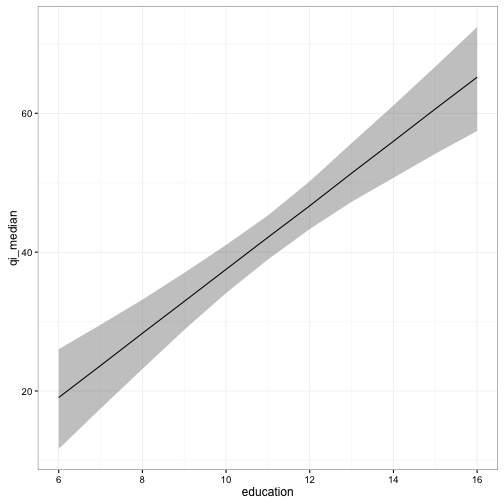
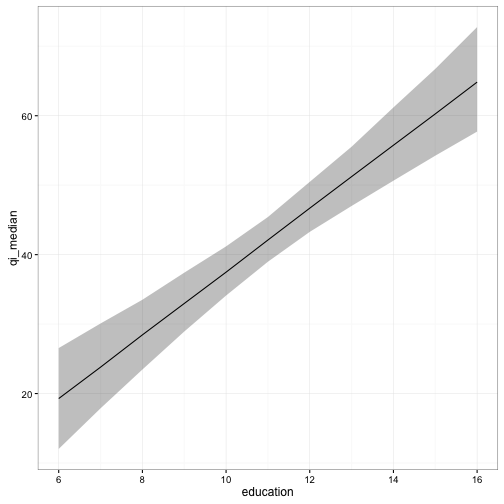
update README examples

diff --git a/README.md b/README.md
@@ -58,12 +58,12 @@ head(linear_qi)
 
 ```
 ##   education typewc      qi_
-## 1         6      1 15.01922
-## 2         6      1 13.03569
-## 3         6      1 17.81771
-## 4         6      1 20.71603
-## 5         6      1 20.61464
-## 6         6      1 18.23198
+## 1         6      1 19.16991
+## 2         6      1 23.26034
+## 3         6      1 22.49117
+## 4         6      1 19.48314
+## 5         6      1 17.05639
+## 6         6      1 17.17741
 ```
 
 By default `qi_builder` will return all of the simulations inside the central 
@@ -90,12 +90,12 @@ head(linear_qi_slim)
 
 ```
 ##   education typewc   qi_min qi_median   qi_max
-## 1         6      1 11.65448  19.05750 26.02128
-## 2         7      1 17.46071  23.66109 29.54267
-## 3         8      1 23.16987  28.31032 33.16030
-## 4         9      1 28.79834  32.90168 37.01256
-## 5        10      1 34.10862  37.52265 41.03652
-## 6        11      1 38.93380  42.12905 45.28592
+## 1         6      1 12.03153  19.28303 26.55257
+## 2         7      1 17.87690  23.80418 30.09274
+## 3         8      1 23.46165  28.44959 33.50827
+## 4         9      1 28.92824  32.96829 37.40324
+## 5        10      1 34.11213  37.47715 41.18952
+## 6        11      1 38.98086  42.10606 45.41850
 ```
 
 The slimmed simulation data set can be efficiently plotted, for example using
@@ -128,7 +128,7 @@ create a function to turn the systematic component into the QI:
 
 
 ```r
-pr_fun <- function(x) 1 / (1 + exp(x))
+pr_fun <- function(x) 1 / (1 + exp(-x))
 ```
 
 Then supply it to `qi_builder`'s `model` argument:
@@ -147,23 +147,11 @@ m2 <- glm(admit ~ gre + gpa + rank, data = Admission, family = 'binomial')
 m2_sims <- b_sim(m2)
 
 # Create fitted values
-m2_fitted <- expand.grid(gre = seq(220, 800, by = 10), gpa = c(2, 4),
+m2_fitted <- expand.grid(gre = seq(220, 800, by = 10), gpa = c(1, 4),
                          rank4 = 1)
 
 # Find quantity of interest
-logistic_qi <- qi_builder(m2_sims, m2_fitted, model = pr_fun)
-
-head(logistic_qi)
-```
-
-```
-##   gre gpa rank4       qi_
-## 1 220   2     1 0.9649347
-## 2 220   2     1 0.9881076
-## 3 220   2     1 0.9637987
-## 4 220   2     1 0.9761772
-## 5 220   2     1 0.9753611
-## 6 220   2     1 0.9571597
+logistic_qi <- qi_builder(m2_sims, m2_fitted, model = pr_fun, slim = TRUE)
 ```
 
 
